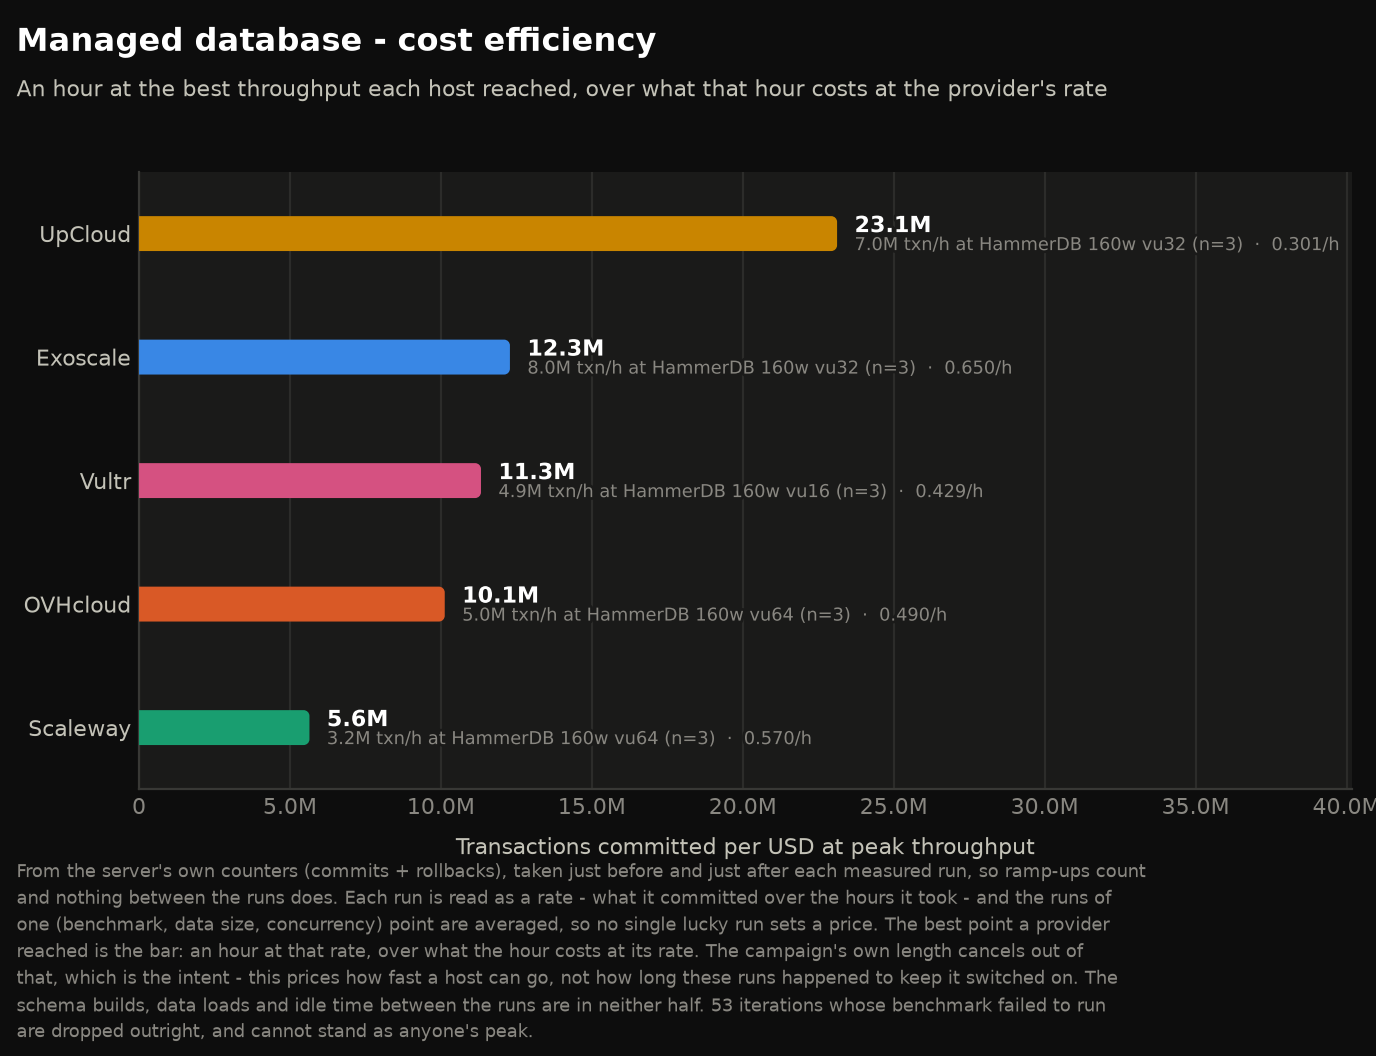
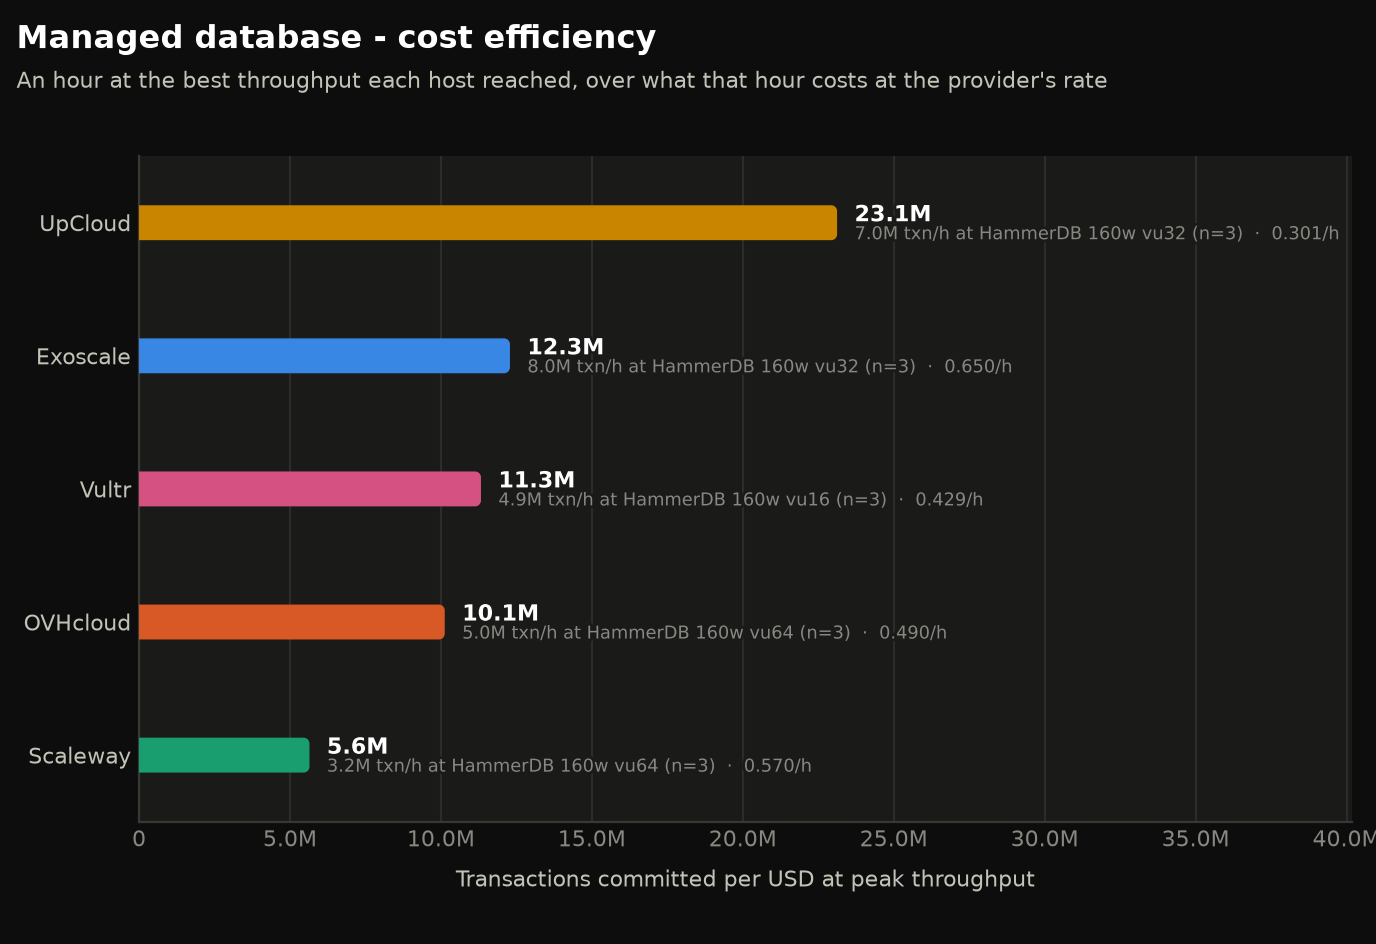
Drop the method footnote from the cost-efficiency charts
The cost charts printed a long paragraph about how the counters are read
and averaged. The method is documented in the README, so the PNGs now
carry only the chart: title, subtitle, bars and their value labels.

Claude-Session: https://claude.ai/code/session_01DVm3N3Ajuy7Jcpprh9BhTG

diff --git a/analyze_results.py b/analyze_results.py
@@ -1046,7 +1046,7 @@ def chart_cost(work: HostWork, mode: str, out: Path, title: str,
     rows = sorted(((work.per_usd(p), p) for p in work.providers),
                   key=lambda r: (r[0] is not None, r[0] or 0), reverse=True)
 
-    fig, ax = plt.subplots(figsize=(8.6, 0.72 * len(rows) + 3.0))
+    fig, ax = plt.subplots(figsize=(8.6, 0.72 * len(rows) + 2.3))
     chrome(ax, t, "Transactions committed per USD at peak throughput", orient="h")
     # Counts run to the millions; full digits on every tick would be a wall of
     # zeroes.  The exact figures are in the table and the CSV.
@@ -1059,34 +1059,10 @@ def chart_cost(work: HostWork, mode: str, out: Path, title: str,
     # axes box exists, because what has to fit there is text.
     ax.set_xlim(0, xmax * 1.38)
 
-    note = (
-        "From the server's own counters (commits + rollbacks), taken just before "
-        "and just after each measured run, so ramp-ups count and nothing between "
-        "the runs does. Each run is read as a rate - what it committed over the "
-        "hours it took - and the runs of one (benchmark, data size, concurrency) "
-        "point are averaged, so no single lucky run sets a price. The best point "
-        "a provider reached is the bar: an hour at that rate, over what the hour "
-        "costs at its rate. The campaign's own length cancels out of that, which "
-        "is the intent - this prices how fast a host can go, not how long these "
-        "runs happened to keep it switched on. The schema builds, data loads and "
-        "idle time between the runs are in neither half."
-    )
-    # Only worth saying where something did fail; on a clean campaign it would
-    # be a sentence about nothing.
-    dropped = sum(work.total(p)["failed_runs"] for p in work.providers)
-    if dropped:
-        note += (
-            f" {dropped} iteration{'' if dropped == 1 else 's'} whose benchmark "
-            f"failed to run {'is' if dropped == 1 else 'are'} dropped outright, "
-            "and cannot stand as anyone's peak."
-        )
-    lines = textwrap.wrap(note, width=int((fig.get_figwidth() - 0.3) / 0.0666))
-    foot = 0.012 + 0.0145 * len(lines)
-
+    # The method behind the numbers is documented in the README, not printed
+    # under the chart.
     titles(fig, title, subtitle, t)
-    fig.tight_layout(rect=(0.0, foot + 0.05, 1.0, 0.86))
-    fig.text(0.012, 0.010, "\n".join(lines), ha="left", va="bottom",
-             fontsize=8, color=t["muted"], linespacing=1.5)
+    fig.tight_layout(rect=(0.0, 0.03, 1.0, 0.86))
     fig.canvas.draw()
 
     # The quotient's inputs, so the bar is never an unexplained ratio: the rate
